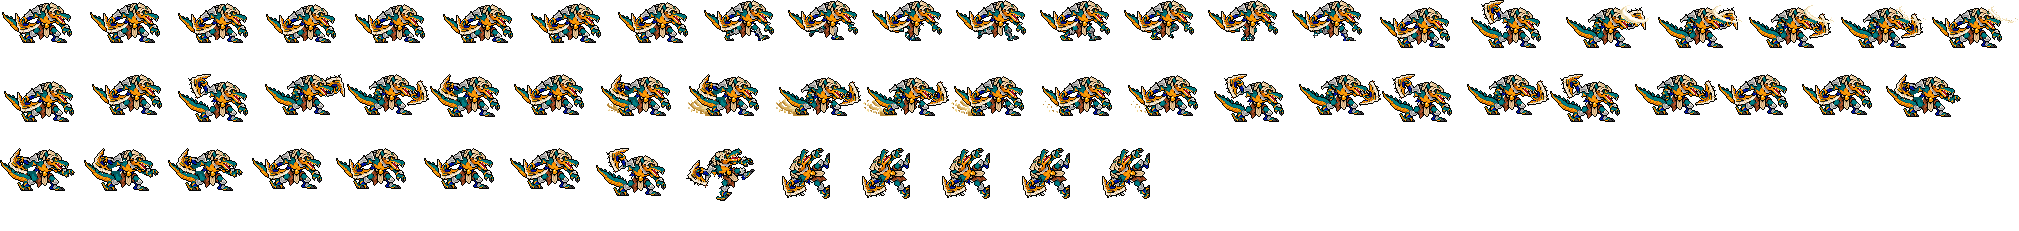
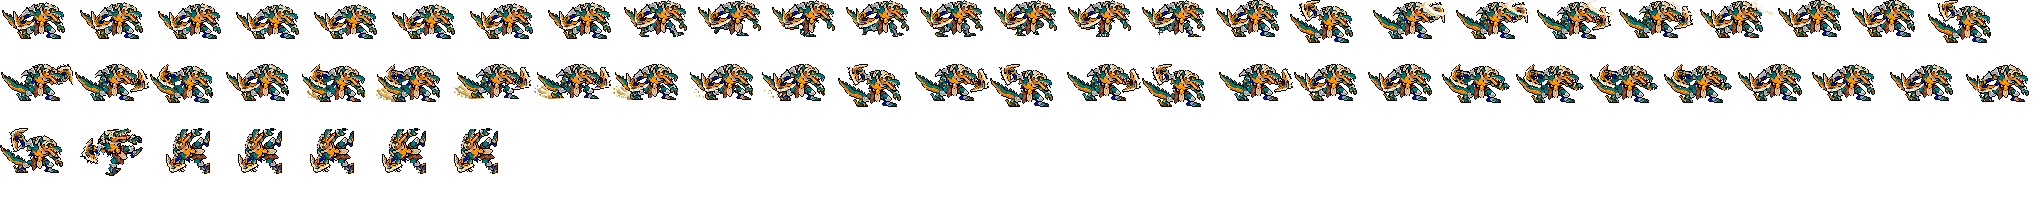
Renekton 90% without resampling (0.79.5)
「鳄鱼体型也偏大了」. import_native SHRINK renekton 0.9 (shrink_frames.py:
whole rows and columns, never resampled): idle 41 -> 37 rows. No line through
his face (the box from his yellow eyes to his red jaw); the lines follow him
from frame to frame (SHRINK_ANCHOR: his eyes), so his head changes between
frames exactly where main's drawing does; the idle shrinks before it
breathes. His breath: the old (0.15, 1) zone lay on his feet on the shrunk
figure and the lean's ankle hinge moved them (main: up to 35 squares by the
feet per frame) - now zone (0.20, 2) in his shins, no lean: feet identical in
all 8 frames, everything above the shins moves rigidly. champion_view face
(12,-24) -> (12,-22) (his eye moved 2 down), center -12 -> -11,
banpick_center -10 -> -14 (idle top -29 -> -25).

diff --git a/tools/art/import_native.py b/tools/art/import_native.py
@@ -75,7 +75,10 @@ BREATHE_SKIP = {"sivir", "brand", "tristana", "jax", "pyke", "yone", "gwen", "ka
 # (「凯南待机时武器也变形」)
 BREATHE_OPTS = {"kennen": {"zone": (0.08, 1)}, "leblanc": {"zone": (0.18, 1)},
                 "janna": {"zone": (0.18, 1)}, "twistedfate": {"zone": (0.18, 1)},
-                "renekton": {"zone": (0.15, 1)}, "vayne": {"zone": (0.20, 1)},
+                "vayne": {"zone": (0.20, 1)},
+                # Renekton shrunk to 90% (「鳄鱼体型也偏大了」): his old (0.15, 1) zone lay on his feet and the lean's
+                # ankle hinge moved them - the seam in his shins, no lean
+                "renekton": {"zone": (0.20, 2), "sway": [0] * 8},
                 "aatrox": {"sway": [0] * 8}}   # his hand left the planted sword's hilt when the body leant
 # hero: [(colour set, box)] of the weapon in the hero's hands. idle_breathe would cut or hinge THROUGH a weapon that
 # reaches the shins (the user's reviews, 2026-10-08: 「剑魔和盖伦武器有点变形」「锐雯武器变形」「莎米拉武器变形」「妖姬和
@@ -637,12 +640,13 @@ TIDY = {"ahri": "clean_ahri", "janna": "clean_janna", "morgana": "clean_morgana"
 # before it breathes. A hero whose strips a rig builds from the design shrinks the design there instead (rig_xinzhao.py
 # SCALE: cut from finished frames a diagonal spear's 1:2 shaft got uneven steps); SHRINK_KEEP: skin colours (hands)
 # no line may cross, "!RRGGBB+up,down,left,right" a box no line may cross
-SHRINK = {"xerath": 0.9}      # players: 「泽拉斯 ... 体型偏大」 (2026-10-08)
-SHRINK_KEEP = {"xerath": ["!FBFCFC"]}   # his eyes' white-hot core: no line through his face
+SHRINK = {"xerath": 0.9, "renekton": 0.9}      # players (2026-10-08): 「泽拉斯 ... 体型偏大」「鳄鱼体型也偏大了」
+# no line through Xerath's face (his eyes' white-hot core) or Renekton's (his yellow eyes to his red jaw)
+SHRINK_KEEP = {"xerath": ["!FBFCFC"], "renekton": ["!F9D206+2,1,2,2", "!A8161F"]}
 # the lines follow the body from frame to frame, anchored on a colour only one feature has: cut at fixed canvas lines,
 # a cast or an attack that moves him took different lines of him in each frame - 「缩小后放技能的时候模型有点变形」
 # 「攻击时候也是」
-SHRINK_ANCHOR = {"xerath": "FBFCFC"}
+SHRINK_ANCHOR = {"xerath": "FBFCFC", "renekton": "F9D206"}
 CROWN = {"leesin"}              # heroes whose head template starts at the crown (a braid stands above it)
 PASTED = {"masteryi"}            # steadied on the head restyle_native pasted: his raised sword is the top of every frame
 # Codex's step-2 redraw (model_strips_18, tidied by tidy_codex18.py): the approved design's head (or face) is in every
